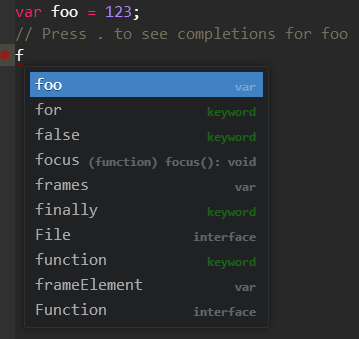
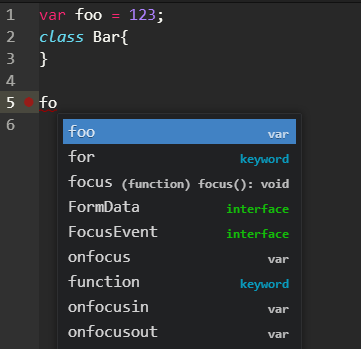
a more colorful autocomplete plus

diff --git a/stylesheets/autocomplete-fix.less b/stylesheets/autocomplete-fix.less
@@ -1,0 +1,15 @@
+// Fixing up autocomplete-plus for us. Just TypeScript files
+// See https://github.com/atom-community/autocomplete-plus/issues/214
+
+atom-text-editor[data-grammar~=ts]{
+
+    // Added 'span.' to the selectors to increase specifity
+
+    .autocomplete-plus.popover-list ol.list-group li span.label{
+        opacity: .7;
+    }
+    .autocomplete-plus.popover-list ol.list-group li span.word{
+        color: white;
+        opacity: .8;
+    }
+}

diff --git a/lib/main/atom/autoCompleteProvider.js b/lib/main/atom/autoCompleteProvider.js
@@ -3,8 +3,12 @@ var ts = require('typescript');
 var fuzzaldrin = require('fuzzaldrin');
 function kindToColor(kind) {
     switch (kind) {
-        case 'keyword':
+        case 'interface':
             return 'rgb(16, 255, 0)';
+        case 'keyword':
+            return 'rgb(0, 207, 255)';
+        case 'class':
+            return 'rgb(255, 0, 194)';
         default:
             return 'white';
     }

diff --git a/lib/main/atom/autoCompleteProvider.ts b/lib/main/atom/autoCompleteProvider.ts
@@ -29,8 +29,12 @@ declare module autocompleteplus {
 
 function kindToColor(kind: string) {
     switch (kind) {
-        case 'keyword':
+        case 'interface':
             return 'rgb(16, 255, 0)';
+        case 'keyword':
+            return 'rgb(0, 207, 255)';
+        case 'class':
+            return 'rgb(255, 0, 194)';
         default:
             return 'white';
     }

diff --git a/examples/autocomplete/test.js b/examples/autocomplete/test.js
@@ -1,2 +1,6 @@
 var foo = 123;
-foo;
+var Bar = (function () {
+    function Bar() {
+    }
+    return Bar;
+})();

diff --git a/examples/autocomplete/test.ts b/examples/autocomplete/test.ts
@@ -1,3 +1,3 @@
 var foo = 123;
-// Press . to see completions for foo
-foo
+class Bar{
+}
